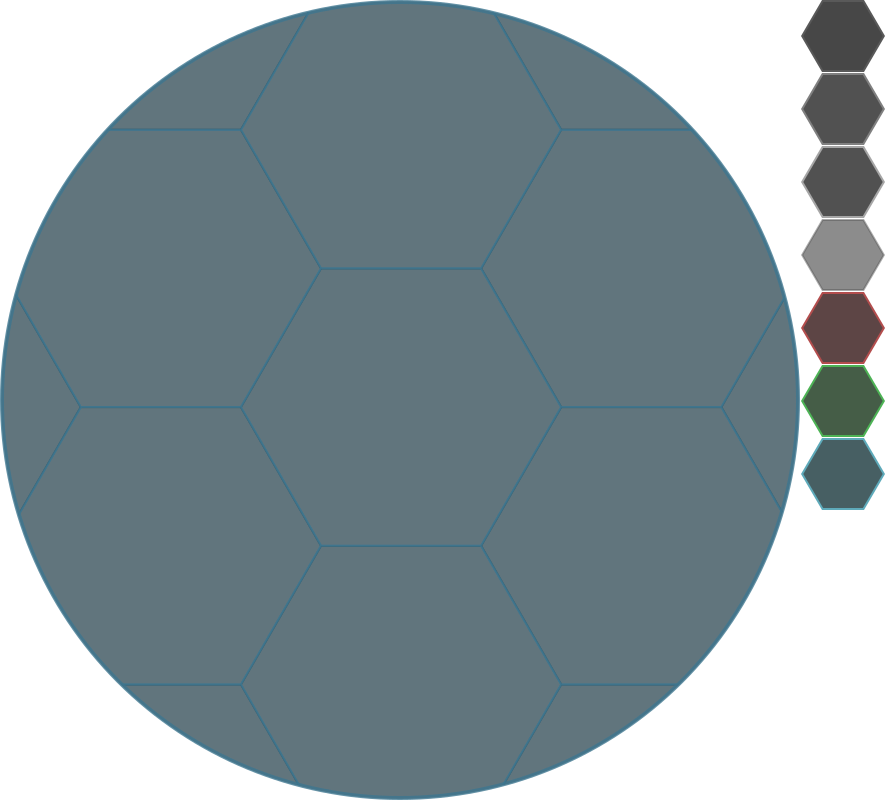
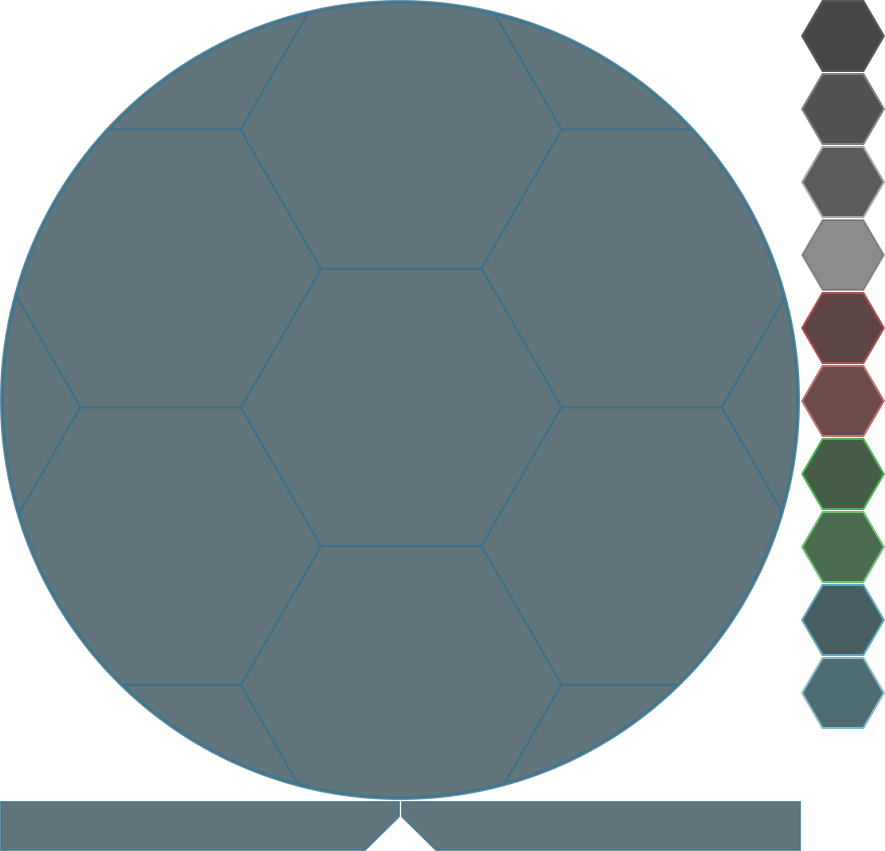
Add top panels to Planet Map screen

diff --git a/src/Screens/ScreenPlanetMap.cpp b/src/Screens/ScreenPlanetMap.cpp
@@ -2,6 +2,7 @@
 
 #include "Game.h"
 #include "States/StatesIds.h"
+#include "Widgets/GameUIData.h"
 #include "Widgets/PlanetMap.h"
 
 #include <sgl/graphic/Font.h>
@@ -10,6 +11,8 @@
 #include <sgl/graphic/Renderer.h>
 #include <sgl/graphic/Texture.h>
 #include <sgl/graphic/TextureManager.h>
+#include <sgl/sgui/Image.h>
+#include <sgl/sgui/Label.h>
 #include <sgl/sgui/Stage.h>
 
 namespace game
@@ -25,9 +28,31 @@ ScreenPlanetMap::ScreenPlanetMap(Game * game)
     graphic::Texture * tex = nullptr;
     graphic::Font * fnt = nullptr;
 
+    const char * fileFont = "data/fonts/Lato-Regular.ttf";
+
+    const unsigned int colorHeader = 0xe9f7fbcc;
+    const int sizeTopHeader = 24;
+
     // BACKGROUND
     tex = tm->GetTexture("data/img/space_bg.jpg");
     mBg = new graphic::Image(tex);
+
+    // PANEL PLANET NAME
+    tex = tm->GetSprite(SpriteFilePlanetMap, IND_PM_PANEL_NAME);
+    auto panelName = new sgui::Image(tex);
+
+    fnt = fm->GetFont(fileFont, sizeTopHeader, graphic::Font::NORMAL);
+    mLabelName = new sgui::Label(fnt, panelName);
+    mLabelName->SetColor(colorHeader);
+
+    // PANEL DATE
+    tex = tm->GetSprite(SpriteFilePlanetMap, IND_PM_PANEL_DATE);
+    auto panelDate = new sgui::Image(tex);
+    panelDate->SetX(mBg->GetWidth() - panelDate->GetWidth());
+
+    fnt = fm->GetFont(fileFont, sizeTopHeader, graphic::Font::NORMAL);
+    mLabelDate = new sgui::Label(fnt, panelDate);
+    mLabelDate->SetColor(colorHeader);
 
     // PLANET
     mPlanet = new PlanetMap;
@@ -35,6 +60,10 @@ ScreenPlanetMap::ScreenPlanetMap(Game * game)
     const int planetX = (mBg->GetWidth() - mPlanet->GetWidth()) * 0.5f;
     const int planetY = (mBg->GetHeight() - mPlanet->GetHeight()) * 0.5f;
     mPlanet->SetPosition(planetX, planetY);
+
+    // TEST - REMOVE LATER
+    SetPlanetName("TEST PLANET V");
+    SetDate("001 - 2200");
 }
 
 ScreenPlanetMap::~ScreenPlanetMap()
@@ -51,6 +80,26 @@ void ScreenPlanetMap::Update(float update)
 void ScreenPlanetMap::Render()
 {
     mBg->Render();
+}
+
+void ScreenPlanetMap::SetPlanetName(const char * name)
+{
+    mLabelName->SetText(name);
+
+    sgl::sgui::Widget * parent = mLabelName->GetParent();
+    const int x = (parent->GetWidth() - mLabelName->GetWidth()) * 0.5f;
+    const int y = (parent->GetHeight() - mLabelName->GetHeight()) * 0.5f;
+    mLabelName->SetPosition(x, y);
+}
+
+void ScreenPlanetMap::SetDate(const char * date)
+{
+    mLabelDate->SetText(date);
+
+    sgl::sgui::Widget * parent = mLabelDate->GetParent();
+    const int x = (parent->GetWidth() - mLabelDate->GetWidth()) * 0.5f;
+    const int y = (parent->GetHeight() - mLabelDate->GetHeight()) * 0.5f;
+    mLabelDate->SetPosition(x, y);
 }
 
 } // namespace game

diff --git a/src/Screens/ScreenPlanetMap.h b/src/Screens/ScreenPlanetMap.h
@@ -5,6 +5,7 @@
 namespace sgl
 {
     namespace graphic { class Image; }
+    namespace sgui { class Label; }
 }
 
 namespace game
@@ -22,7 +23,14 @@ public:
     void Render() override;
 
 private:
+    void SetPlanetName(const char * name);
+    void SetDate(const char * date);
+
+private:
     sgl::graphic::Image * mBg = nullptr;
+
+    sgl::sgui::Label * mLabelName = nullptr;
+    sgl::sgui::Label * mLabelDate = nullptr;
 
     PlanetMap * mPlanet = nullptr;
 };

diff --git a/src/Screens/ScreenInit.cpp b/src/Screens/ScreenInit.cpp
@@ -656,7 +656,10 @@ ScreenInit::ScreenInit(Game * game)
             { 801, 438, 84, 72 },
             { 801, 511, 84, 72 },
             { 801, 584, 84, 72 },
-            { 801, 657, 84, 72 }
+            { 801, 657, 84, 72 },
+            // PANELS  TOP
+            { 0, 801, 400, 50 },
+            { 401, 801, 400, 50 },
         };
 
         tm->RegisterSprite(SpriteFilePlanetMap, rects);

diff --git a/src/Widgets/PlanetMap.cpp b/src/Widgets/PlanetMap.cpp
@@ -52,7 +52,7 @@ public:
     bool IsScreenPointInside(int x, int y) override
     {
         const int border = 2;
-        const int hw = (GetWidth() * 0.5) - border;
+        const int hw = (GetWidth() * 0.5f) - border;
         const int hh = (GetHeight() * 0.5f) - border;
         const int radius2 = hw > hh ? hw * hw : hh * hh;
 

diff --git a/src/Widgets/GameUIData.h b/src/Widgets/GameUIData.h
@@ -239,7 +239,11 @@ enum SpriteIdPlanetMap : unsigned int
     IND_PM_CELL_F2,
     IND_PM_CELL_F2_SEL,
     IND_PM_CELL_F3,
-    IND_PM_CELL_F3_SEL
+    IND_PM_CELL_F3_SEL,
+
+    // PANELS  TOP
+    IND_PM_PANEL_NAME,
+    IND_PM_PANEL_DATE,
 };
 
 // RESOURCES BAR
